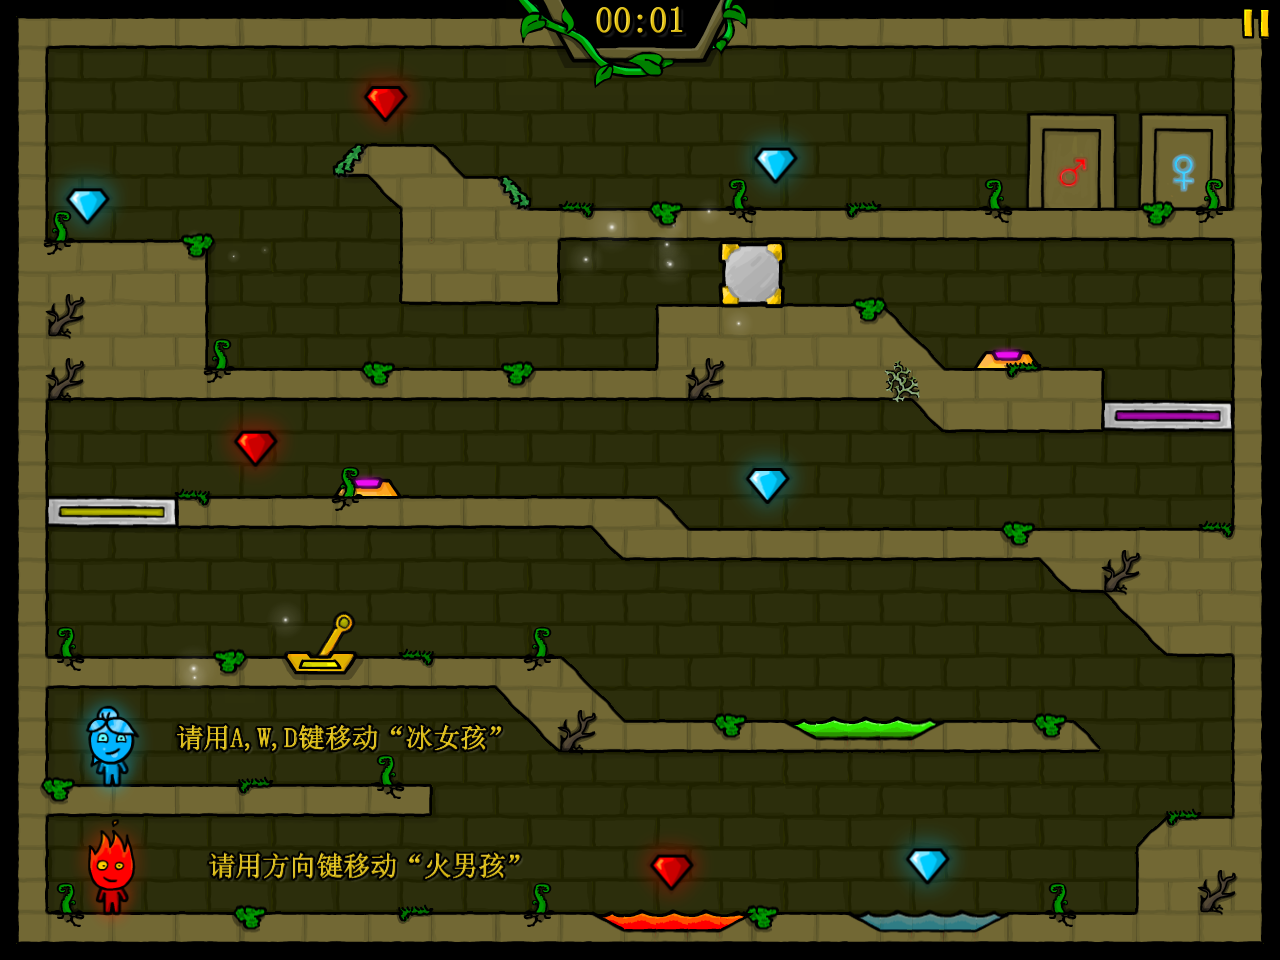
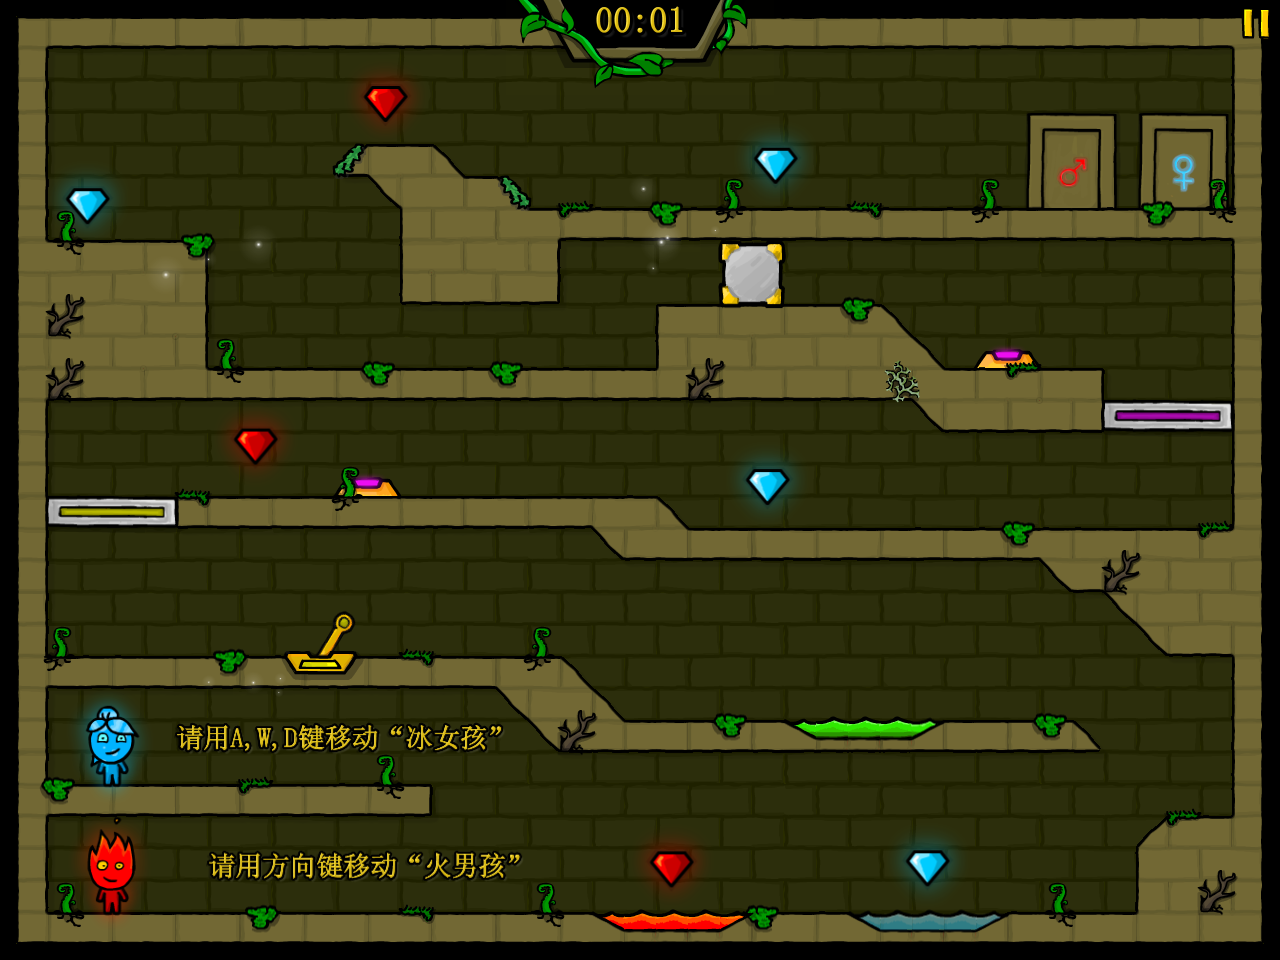
fix(client): 时钟锚点/文字位实测校正（视觉差分热图驱动，R10）
- Clock 锚点 (0.5,0)→(0.5,0.05)（原版盘面上探 5px）；文字 y 30→56（原版 y55-83）
- visual-diff 视口改画布原生尺寸（1:1 采样）；视觉复刻度 94.91 → 95.00
- 报告 §十三；版本 0.3.8 → 0.3.9

diff --git a/gyのFW/packages/client/src/scenes/GameScene.ts b/gyのFW/packages/client/src/scenes/GameScene.ts
@@ -727,10 +727,11 @@ export class GameScene extends Phaser.Scene {
   private buildHud(): void {
     // HUD 挂相机（scrollFactor 0），坐标 = 视口系（关卡矩形内）
     const clockX = 640; // 画布 1280 的水平中心（原版 LevelUI 时钟位）
-    this.add.image(clockX, 0, ATLAS_TEMPLE, "Clock0000").setOrigin(0.5, 0).setDepth(9).setScrollFactor(0);
+    // 原版 Clock 锚点 (0.5, 0.05)：盘面上探 5px；文字区在 y≈55-83（像素差分热图实证）
+    this.add.image(clockX, 0, ATLAS_TEMPLE, "Clock0000").setOrigin(0.5, 0.05).setDepth(9).setScrollFactor(0);
     // 原版 LevelUI/Clock：TempleAssets Clock0000 + font 位图字 24 号（bitmapText 基准 48 半缩放）
     this.clockText = this.add
-      .bitmapText(clockX, 30, FONT_MAIN, "00:00", 24)
+      .bitmapText(clockX, 56, FONT_MAIN, "00:00", 24)
       .setOrigin(0.5, 0)
       .setDepth(9)
       .setScrollFactor(0);

diff --git a/gyのFW/note/release/0.3.9.md b/gyのFW/note/release/0.3.9.md
@@ -1,0 +1,16 @@
+# 0.3.9 · 时钟锚点/文字位实测校正
+
+> 2026-10-06。视觉保真轮：像素差分热图实证驱动的时钟区微校正。
+
+## 画布内时钟
+
+- Clock 盘面锚点 (0.5,0) → **(0.5,0.05)**（原版盘面上探 5px）
+- 时间文字 y 30 → **56**（原版文字区 y55-83，热图实证）
+
+## 基准
+
+- visual-diff 视口改画布原生尺寸（1:1 采样，消除 FIT 上采样）；视觉复刻度指数 **95.00**。
+
+## 验证
+
+- typecheck + build 全绿；纯客户端渲染层改动。
